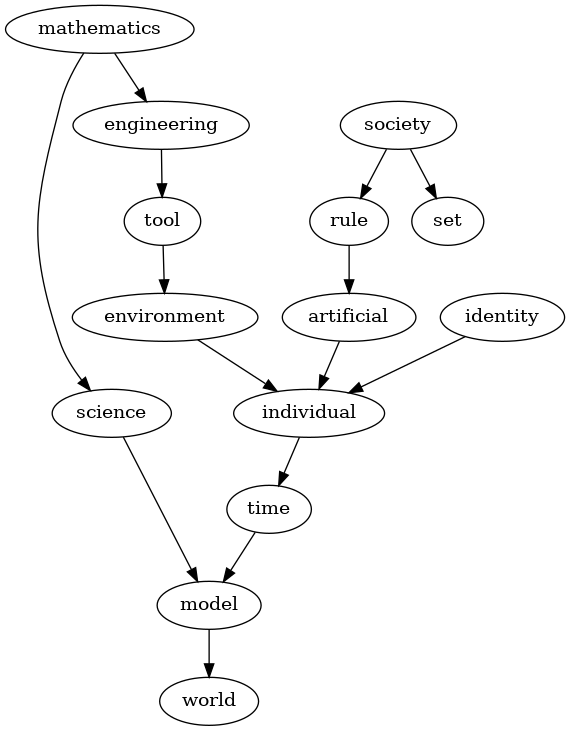
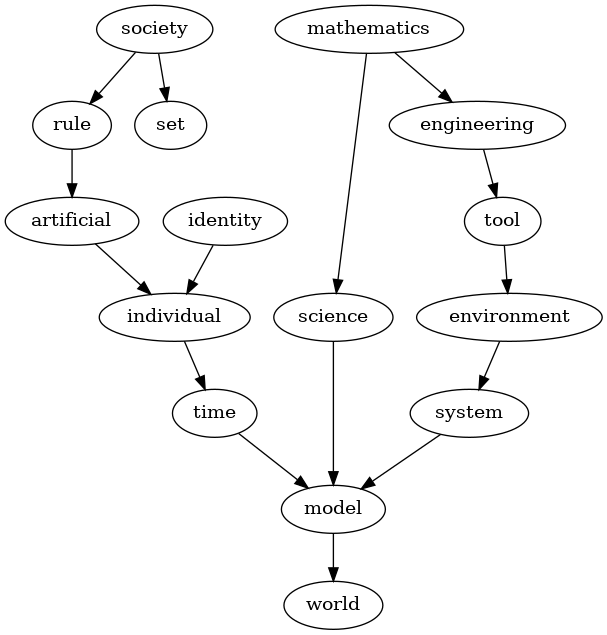
Add definition

diff --git a/docs/2020-09-12-dictionary/index.html b/docs/2020-09-12-dictionary/index.html
@@ -24,7 +24,8 @@
 <p><span id="vanity-6d6f64656c"></span><strong>model</strong>: <span class="vanity-contents">An unambiguous representation of the <a href="#vanity-776f726c64" class="vanity-term-link">world</a>. As such, a model can in principle be translated into another language and recovered back without loss. A model is necessarily simpler than the world in which it can be expressed.</span></p>
 <p><span id="vanity-74696d65"></span><strong>time</strong>: <span class="vanity-contents">An ordering over the states of a <a href="#vanity-6d6f64656c" class="vanity-term-link">model</a>. Time is the breakdown of a model into a sequence of objects called states with constraints over those states. A more specific definition of time is part of each model, if the model relies on such notion of time or successive states. Unless otherwise specified, the stepwise execution of computer programs uses a discrete, nonnegative index t to reference the successive steps of a computation. An ideal scenario is a computation of discrete states starting from an initial state t = 0 and a transition function. The transition function computes the next state from the previous one. Such computations are called simulations. More generally however, when there is no need for computing successive states, time is usually modeled as the real line.</span></p>
 <p><span id="vanity-696e646976696475616c"></span><strong>individual</strong>: <span class="vanity-contents">In a <a href="#vanity-6d6f64656c" class="vanity-term-link">model</a> of the <a href="#vanity-776f726c64" class="vanity-term-link">world</a>, an individual is a mutable entity which interacts with the rest of world, including other individuals. Each individual exists for some continuous period of <a href="#vanity-74696d65" class="vanity-term-link">time</a>, usually in a binary fashion: at a given time, the individual either exists or doesn't exist.</span></p>
-<p><span id="vanity-656e7669726f6e6d656e74"></span><strong>environment</strong>: <span class="vanity-contents">In a <a href="#vanity-6d6f64656c" class="vanity-term-link">model</a> comprising <a href="#vanity-696e646976696475616c" class="vanity-term-link">individuals</a>, the environment refers to everything in the model that's not part of the individual.</span></p>
+<p><span id="vanity-73797374656d"></span><strong>system</strong>: <span class="vanity-contents">A system refers to a partial <a href="#vanity-6d6f64656c" class="vanity-term-link">model</a>. It can be obtained by taking some elements of a <a href="#vanity-776f726c64" class="vanity-term-link">world</a> model and ignoring all interactions with the rest of the world, or by modeling the rest of the world in a simpler manner than in the original model. For example, modeling a car could consist in retaining a model of the car components as well as a model of a road and how the car interacts with the road, discarding all other elements of the world such as buildings and trees. In this example, the car is the system and the road is the rest of the world.</span></p>
+<p><span id="vanity-656e7669726f6e6d656e74"></span><strong>environment</strong>: <span class="vanity-contents">In a <a href="#vanity-6d6f64656c" class="vanity-term-link">model</a> comprising <a href="#vanity-73797374656d" class="vanity-term-link">systems</a>, the environment refers to everything in the model that's not part of the system under consideration.</span></p>
 <p><span id="vanity-6172746966696369616c"></span><strong>artificial</strong>: <span class="vanity-contents">The property of being created by <a href="#vanity-696e646976696475616c" class="vanity-term-link">individuals</a>, as opposed to being imposed by the <a href="#vanity-6d6f64656c" class="vanity-term-link">model</a> of the <a href="#vanity-776f726c64" class="vanity-term-link">world</a> in which the individuals exist.</span></p>
 <p><span id="vanity-6964656e74697479"></span><strong>identity</strong>: <span class="vanity-contents">The collection of properties associated with an <a href="#vanity-696e646976696475616c" class="vanity-term-link">individual</a>.</span></p>
 <p><span id="vanity-736574"></span><strong>set</strong>: <span class="vanity-contents">A set as defined in mathematics by the axioms of set theory.</span></p>

diff --git a/src/2020-09-12-dictionary/index.md b/src/2020-09-12-dictionary/index.md
@@ -43,11 +43,22 @@ individuals. Each individual exists for some continuous period of
 fashion: at a given time, the individual either exists or doesn\'t
 exist.]{.vanity-contents}
 
+[]{#vanity-73797374656d}**system**: [A system refers to a partial
+[model](#vanity-6d6f64656c){.vanity-term-link}. It can be obtained by
+taking some elements of a [world](#vanity-776f726c64){.vanity-term-link}
+model and ignoring all interactions with the rest of the world, or by
+modeling the rest of the world in a simpler manner than in the original
+model. For example, modeling a car could consist in retaining a model of
+the car components as well as a model of a road and how the car
+interacts with the road, discarding all other elements of the world such
+as buildings and trees. In this example, the car is the system and the
+road is the rest of the world.]{.vanity-contents}
+
 []{#vanity-656e7669726f6e6d656e74}**environment**: [In a
 [model](#vanity-6d6f64656c){.vanity-term-link} comprising
-[individuals](#vanity-696e646976696475616c){.vanity-term-link}, the
-environment refers to everything in the model that\'s not part of the
-individual.]{.vanity-contents}
+[systems](#vanity-73797374656d){.vanity-term-link}, the environment
+refers to everything in the model that\'s not part of the system under
+consideration.]{.vanity-contents}
 
 []{#vanity-6172746966696369616c}**artificial**: [The property of being
 created by
